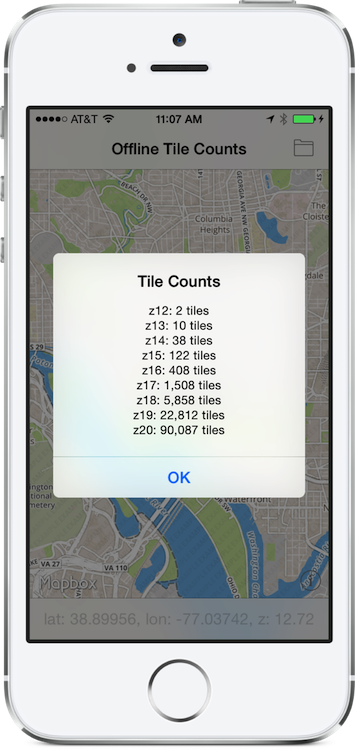
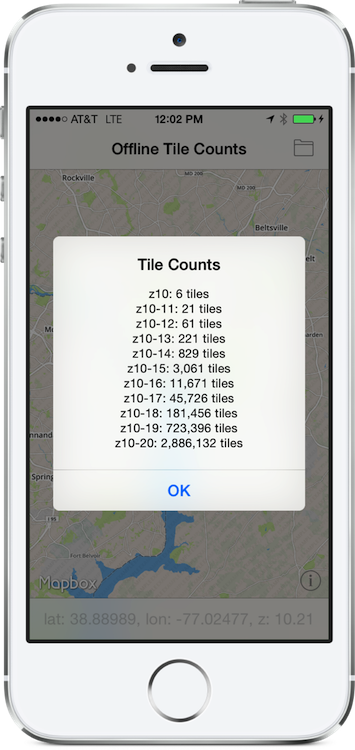
clarify zoom ranges

diff --git a/Offline Calc/ViewController.swift b/Offline Calc/ViewController.swift
@@ -66,7 +66,11 @@ class ViewController: UIViewController, RMMapViewDelegate {
             total += zoomCount
 
             if let formattedTotal = formatter.stringFromNumber(NSNumber(unsignedLong: zoomCount)) {
-                output += "z\(zoom): \(formattedTotal) tiles\n"
+                if (zoom > lowZoom) {
+                    output += "z\(lowZoom)-\(zoom): \(formattedTotal) tiles\n"
+                } else {
+                    output += "z\(zoom): \(formattedTotal) tiles\n"
+                }
             }
         }
 
